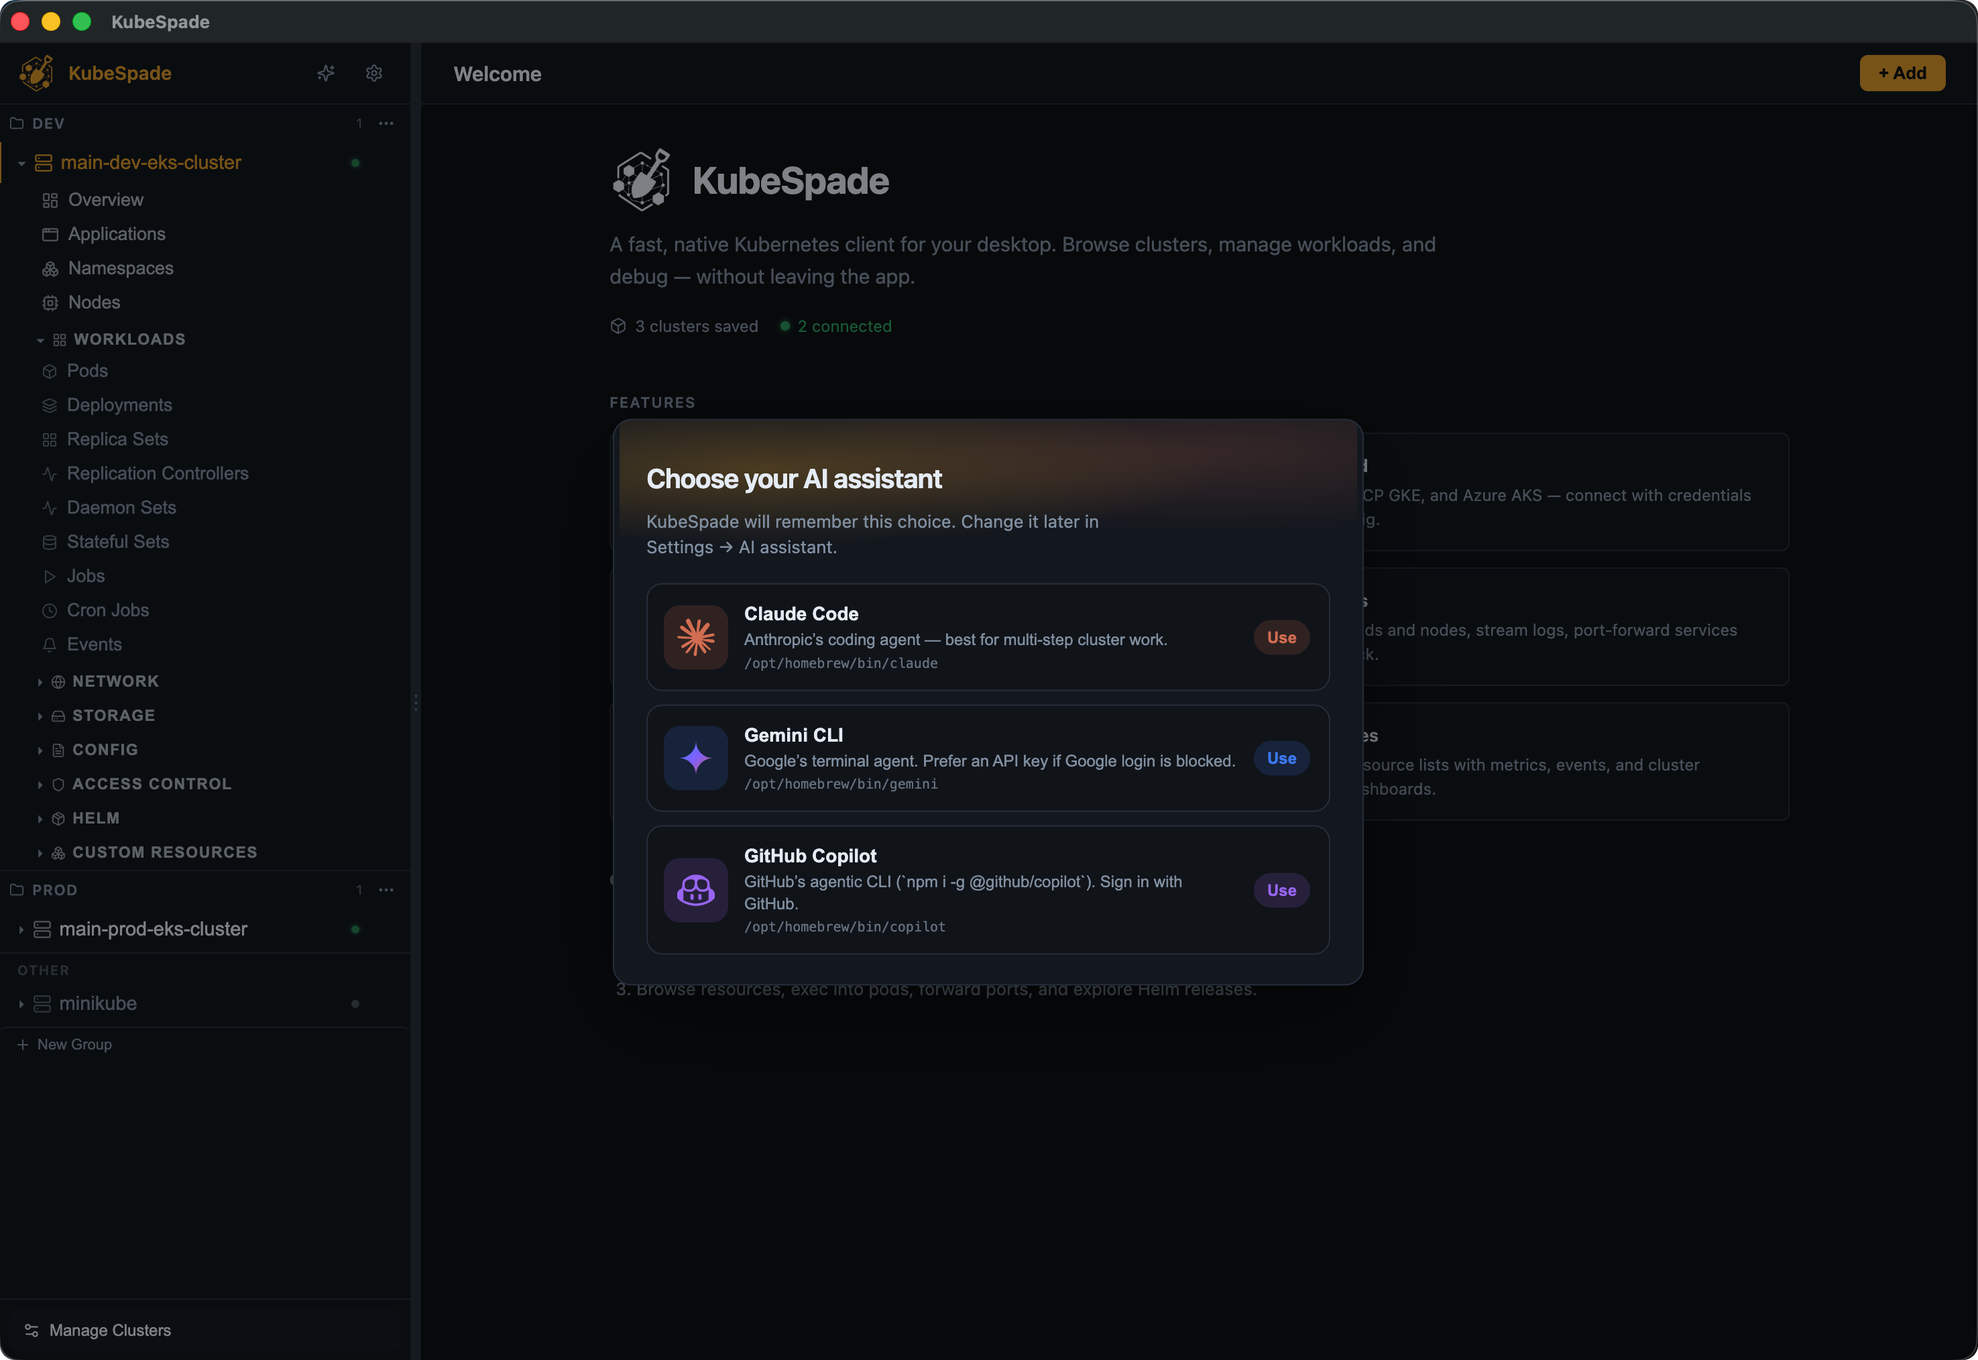
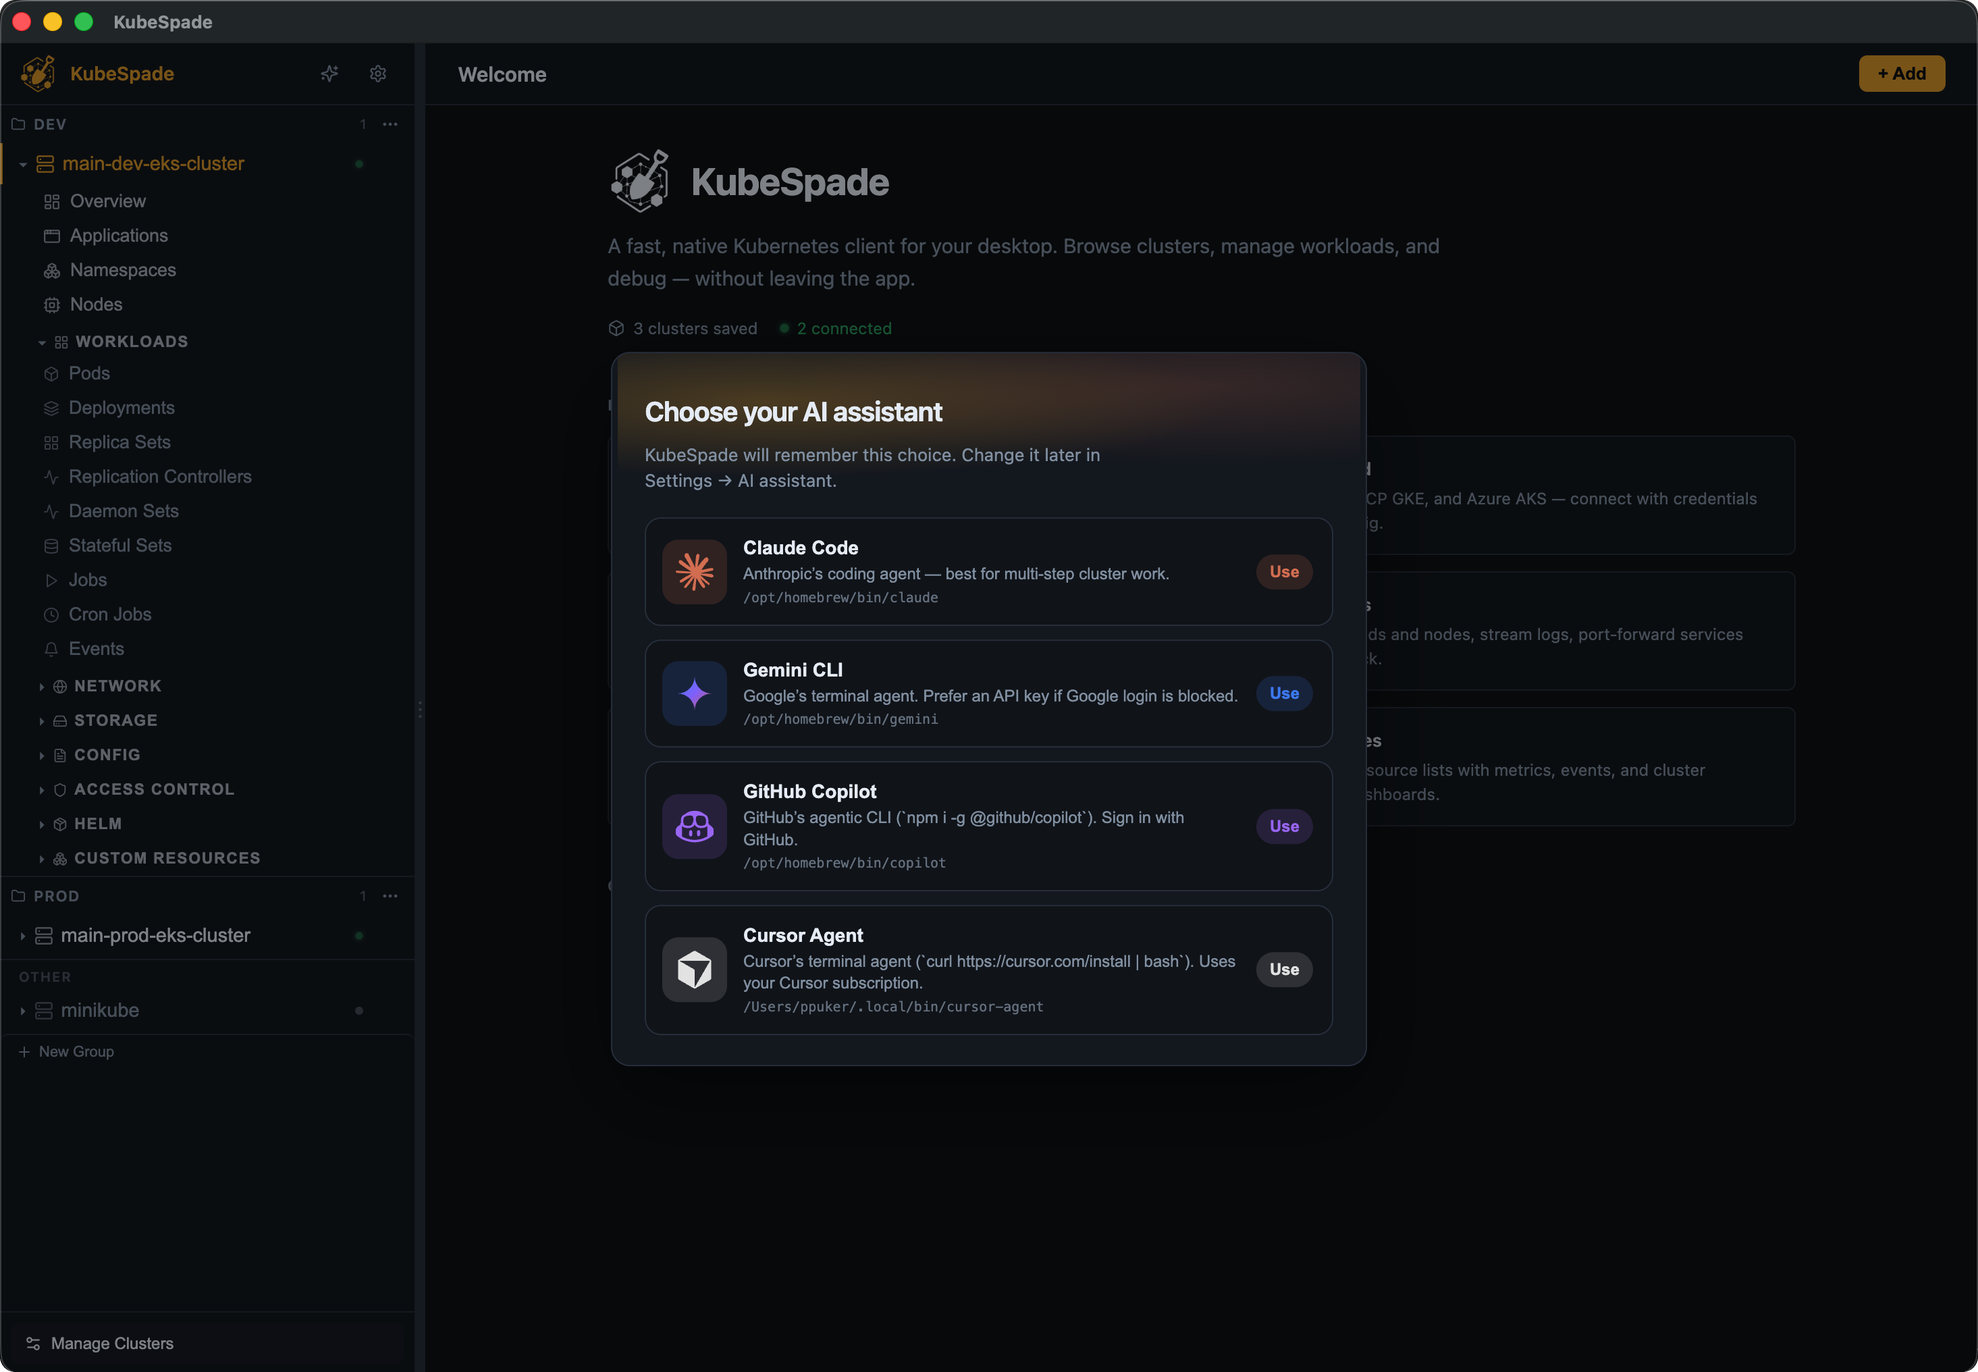
New features

diff --git a/ai.html b/ai.html
@@ -4,7 +4,7 @@
   <meta charset="utf-8" />
   <meta name="viewport" content="width=device-width, initial-scale=1" />
   <title>In-app AI for Kubernetes — KubeSpade Desktop</title>
-  <meta name="description" content="KubeSpade Desktop embeds Claude Code, Gemini CLI, Codex, or GitHub Copilot. Ask your connected clusters in plain language via MCP — reads are free, writes need Approve. No live kubeconfig in the AI shell." />
+  <meta name="description" content="KubeSpade Desktop embeds Claude Code, Gemini CLI, Codex, GitHub Copilot, or Cursor Agent. Ask your connected clusters in plain language via MCP — reads are free, writes need Approve. No live kubeconfig in the AI shell." />
   <meta name="robots" content="index, follow, max-image-preview:large" />
   <link rel="canonical" href="https://kubespade.com/ai.html" />
   <link rel="icon" type="image/png" sizes="32x32" href="/favicon-32.png?v=2" />
@@ -13,7 +13,7 @@
   <link rel="manifest" href="/site.webmanifest" />
 
   <meta property="og:title" content="In-app AI for Kubernetes — KubeSpade" />
-  <meta property="og:description" content="Claude, Gemini, Codex, or Copilot inside KubeSpade. Cluster tools via MCP; writes wait for your Approve." />
+  <meta property="og:description" content="Claude, Gemini, Codex, Copilot, or Cursor inside KubeSpade. Cluster tools via MCP; writes wait for your Approve." />
   <meta property="og:type" content="website" />
   <meta property="og:url" content="https://kubespade.com/ai.html" />
   <meta property="og:image" content="https://kubespade.com/assets/screenshots/05-mac-ai-chat.png" />
@@ -34,7 +34,7 @@
     "@type": "WebPage",
     "name": "In-app AI for Kubernetes — KubeSpade Desktop",
     "url": "https://kubespade.com/ai.html",
-    "description": "KubeSpade Desktop embeds Claude Code, Gemini CLI, Codex, or GitHub Copilot with MCP cluster tools and write approval.",
+    "description": "KubeSpade Desktop embeds Claude Code, Gemini CLI, Codex, GitHub Copilot, or Cursor Agent with MCP cluster tools and write approval.",
     "isPartOf": { "@type": "WebSite", "url": "https://kubespade.com/" },
     "primaryImageOfPage": {
       "@type": "ImageObject",
@@ -66,8 +66,9 @@
         <h1>Ask your clusters<br />in plain language.</h1>
         <p class="lead">
           KubeSpade embeds the AI CLI you already use —
-          <strong>Claude Code</strong>, <strong>Gemini CLI</strong>, <strong>Codex</strong>, or
-          <strong>GitHub Copilot</strong> — with tools scoped to clusters connected in the app.
+          <strong>Claude Code</strong>, <strong>Gemini CLI</strong>, <strong>Codex</strong>,
+          <strong>GitHub Copilot</strong>, or <strong>Cursor Agent</strong> — with tools scoped to
+          clusters connected in the app.
         </p>
         <div class="hero-actions">
           <a class="btn btn-primary" href="download.html">Get Desktop</a>
@@ -102,6 +103,7 @@
         <span class="tag">Gemini CLI</span>
         <span class="tag">Codex CLI</span>
         <span class="tag">GitHub Copilot</span>
+        <span class="tag">Cursor Agent</span>
       </div>
     </section>
 
@@ -114,7 +116,7 @@
         <article class="feature">
           <div class="feature-icon" aria-hidden="true">✦</div>
           <h3>Pick once</h3>
-          <p>First open shows Claude, Gemini, Codex, or Copilot if they’re on your PATH. The choice sticks; change it in Settings anytime.</p>
+          <p>First open shows Claude, Gemini, Codex, Copilot, or Cursor if they’re on your PATH. The choice sticks; change it in Settings anytime.</p>
         </article>
         <article class="feature">
           <div class="feature-icon" aria-hidden="true">◎</div>
@@ -153,12 +155,12 @@
         <article class="shot-row">
           <div class="shot-copy">
             <span class="shot-tag">AI clients</span>
-            <h3>Pick Claude, Gemini, Codex, or Copilot</h3>
+            <h3>Pick Claude, Gemini, Codex, Copilot, or Cursor</h3>
             <p>First open asks which CLI to use. The choice sticks; change it anytime in Settings.</p>
           </div>
           <div class="shot-media">
-            <button type="button" class="shot-zoom shot-zoom-mac" data-lightbox="assets/screenshots/05-mac-ai-picker.png" data-caption="Choose your AI assistant" aria-label="Enlarge: AI picker">
-              <img src="assets/screenshots/05-mac-ai-picker.png" alt="KubeSpade Choose your AI assistant dialog with Claude, Gemini, and Copilot" width="1978" height="1360" loading="lazy" />
+            <button type="button" class="shot-zoom shot-zoom-mac" data-lightbox="assets/screenshots/05-mac-ai-picker.png?v=20260827b" data-caption="Choose your AI assistant" aria-label="Enlarge: AI picker">
+              <img src="assets/screenshots/05-mac-ai-picker.png?v=20260827b" alt="KubeSpade Choose your AI assistant dialog with Claude, Gemini, Codex, Copilot, and Cursor" width="1978" height="1372" loading="lazy" />
               <span class="shot-zoom-hint">Click to enlarge</span>
             </button>
           </div>
@@ -209,8 +211,8 @@
             <p>Preferred client lives in Settings → AI assistant; the sidebar icon matches your choice.</p>
           </div>
           <div class="shot-media">
-            <button type="button" class="shot-zoom shot-zoom-mac" data-lightbox="assets/screenshots/05-mac-ai-settings.png" data-caption="Change AI assistant from Settings" aria-label="Enlarge: AI settings">
-              <img src="assets/screenshots/05-mac-ai-settings.png" alt="Change AI assistant dialog showing Claude In use and Switch for others" width="1978" height="1363" loading="lazy" />
+            <button type="button" class="shot-zoom shot-zoom-mac" data-lightbox="assets/screenshots/05-mac-ai-settings.png?v=20260827b" data-caption="Change AI assistant from Settings" aria-label="Enlarge: AI settings">
+              <img src="assets/screenshots/05-mac-ai-settings.png?v=20260827b" alt="Change AI assistant dialog showing preferred clients including Cursor" width="1978" height="1372" loading="lazy" />
               <span class="shot-zoom-hint">Click to enlarge</span>
             </button>
           </div>
@@ -230,7 +232,7 @@
       </article>
       <article class="trust-card">
         <h3>What you install</h3>
-        <p>Bring your own CLI — we detect <code>claude</code>, <code>gemini</code>, <code>codex</code>, or <code>copilot</code> on PATH. Auth stays with that vendor’s login.</p>
+        <p>Bring your own CLI — we detect <code>claude</code>, <code>gemini</code>, <code>codex</code>, <code>copilot</code>, or <code>agent</code> (Cursor) on PATH. Auth stays with that vendor’s login.</p>
         <ul>
           <li><a href="download.html">Download Desktop</a></li>
           <li><a href="faq.html">FAQ</a></li>

diff --git a/faq.html b/faq.html
@@ -49,7 +49,7 @@
         "name": "Does Desktop include an AI assistant?",
         "acceptedAnswer": {
           "@type": "Answer",
-          "text": "Yes on Desktop. KubeSpade can launch Claude Code, Gemini CLI, Codex CLI, or GitHub Copilot with MCP tools for clusters you already connected. Reads run freely; apply and delete wait for Approve in the UI. The AI shell does not get a live kubeconfig. See the AI page for details."
+          "text": "Yes on Desktop. KubeSpade can launch Claude Code, Gemini CLI, Codex CLI, GitHub Copilot, or Cursor Agent with MCP tools for clusters you already connected. Reads run freely; apply and delete wait for Approve in the UI. The AI shell does not get a live kubeconfig. See the AI page for details."
         }
       },
       {
@@ -115,8 +115,9 @@
         <summary>Does Desktop include an AI assistant?</summary>
         <p>
           Yes on <strong>Desktop</strong> (macOS, Windows, Linux). KubeSpade launches
-          <strong>Claude Code</strong>, <strong>Gemini CLI</strong>, <strong>Codex</strong>, or
-          <strong>GitHub Copilot</strong> if they’re installed, with MCP tools for clusters you’ve
+          <strong>Claude Code</strong>, <strong>Gemini CLI</strong>, <strong>Codex</strong>,
+          <strong>GitHub Copilot</strong>, or <strong>Cursor Agent</strong> if they’re installed,
+          with MCP tools for clusters you’ve
           already connected. Reads are free; apply and delete need <strong>Approve</strong> in the UI.
           The AI shell does not get a live kubeconfig. Details on the <a href="ai.html">AI page</a>.
         </p>

diff --git a/index.html b/index.html
@@ -70,7 +70,7 @@
           "Stream pod logs and exec into containers",
           "Edit and apply YAML",
           "Port-forward and Helm",
-          "In-app AI (Claude, Gemini, Codex, Copilot) with MCP and write approval",
+          "In-app AI (Claude, Gemini, Codex, Copilot, Cursor) with MCP and write approval",
           "Connect Amazon EKS, Google GKE, Azure AKS, or kubeconfig"
         ],
         "screenshot": [
@@ -233,7 +233,7 @@
           <div class="feature-icon" aria-hidden="true">✦</div>
           <h3>In-app AI <span class="feature-badge">Desktop</span></h3>
           <p>
-            Claude, Gemini, Codex, or Copilot inside the app — MCP tools for connected clusters,
+            Claude, Gemini, Codex, Copilot, or Cursor inside the app — MCP tools for connected clusters,
             Approve for writes.
             <a href="ai.html">Learn more</a>
           </p>

diff --git a/assets/screenshots/SHOT_LIST.md b/assets/screenshots/SHOT_LIST.md
@@ -27,7 +27,7 @@ AI mac shots: backed up to `_originals/`, scaled to width **1978** (match other 
 
 | File | Tag | Headline | Body |
 |------|-----|----------|------|
-| `05-mac-ai-picker.png` | AI clients | Pick Claude, Gemini, Codex, or Copilot | First open asks which CLI to use. The choice sticks; change it anytime in Settings. |
+| `05-mac-ai-picker.png` | AI clients | Pick Claude, Gemini, Codex, Copilot, or Cursor | First open asks which CLI to use. The choice sticks; change it anytime in Settings. |
 | `05-mac-ai-chat.png` | AI terminal | Ask your clusters in plain language | In-app AI sees only clusters connected in KubeSpade — via MCP tools, not a live kubeconfig in the shell. |
 | `05-mac-ai-approve.png` | Guardrails | Writes need your OK | Reads are free. Apply and delete wait for Approve in the app before they run. |
 | `05-mac-ai-tabs.png` | Workbench | AI next to pod exec | Same bottom dock as SSH and logs — switch tabs without juggling windows. |
